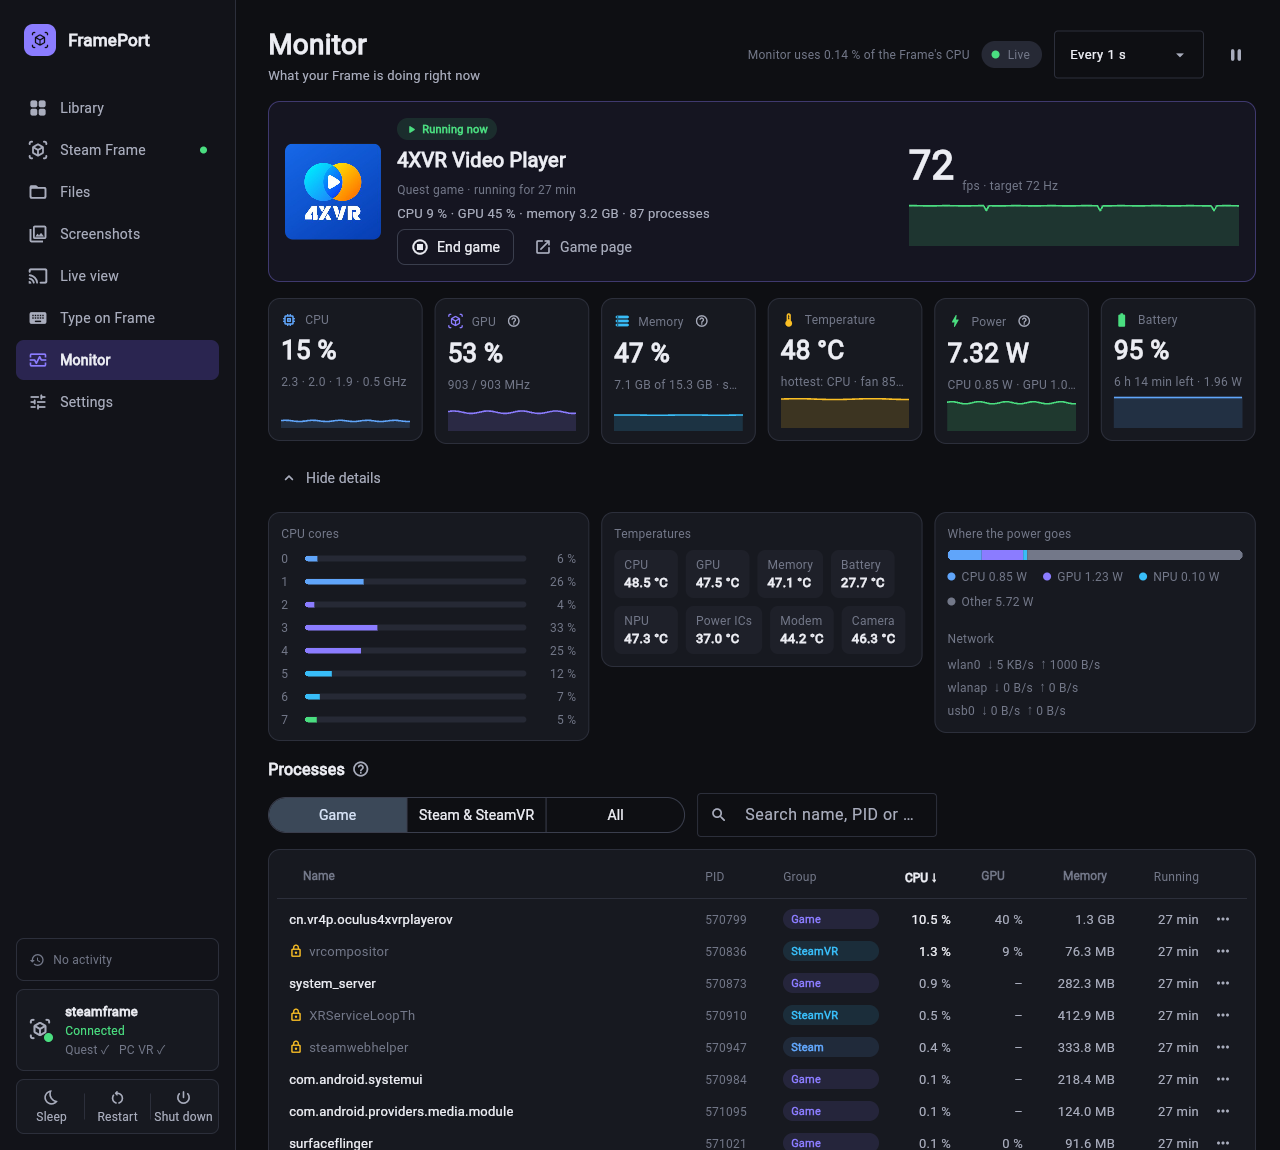
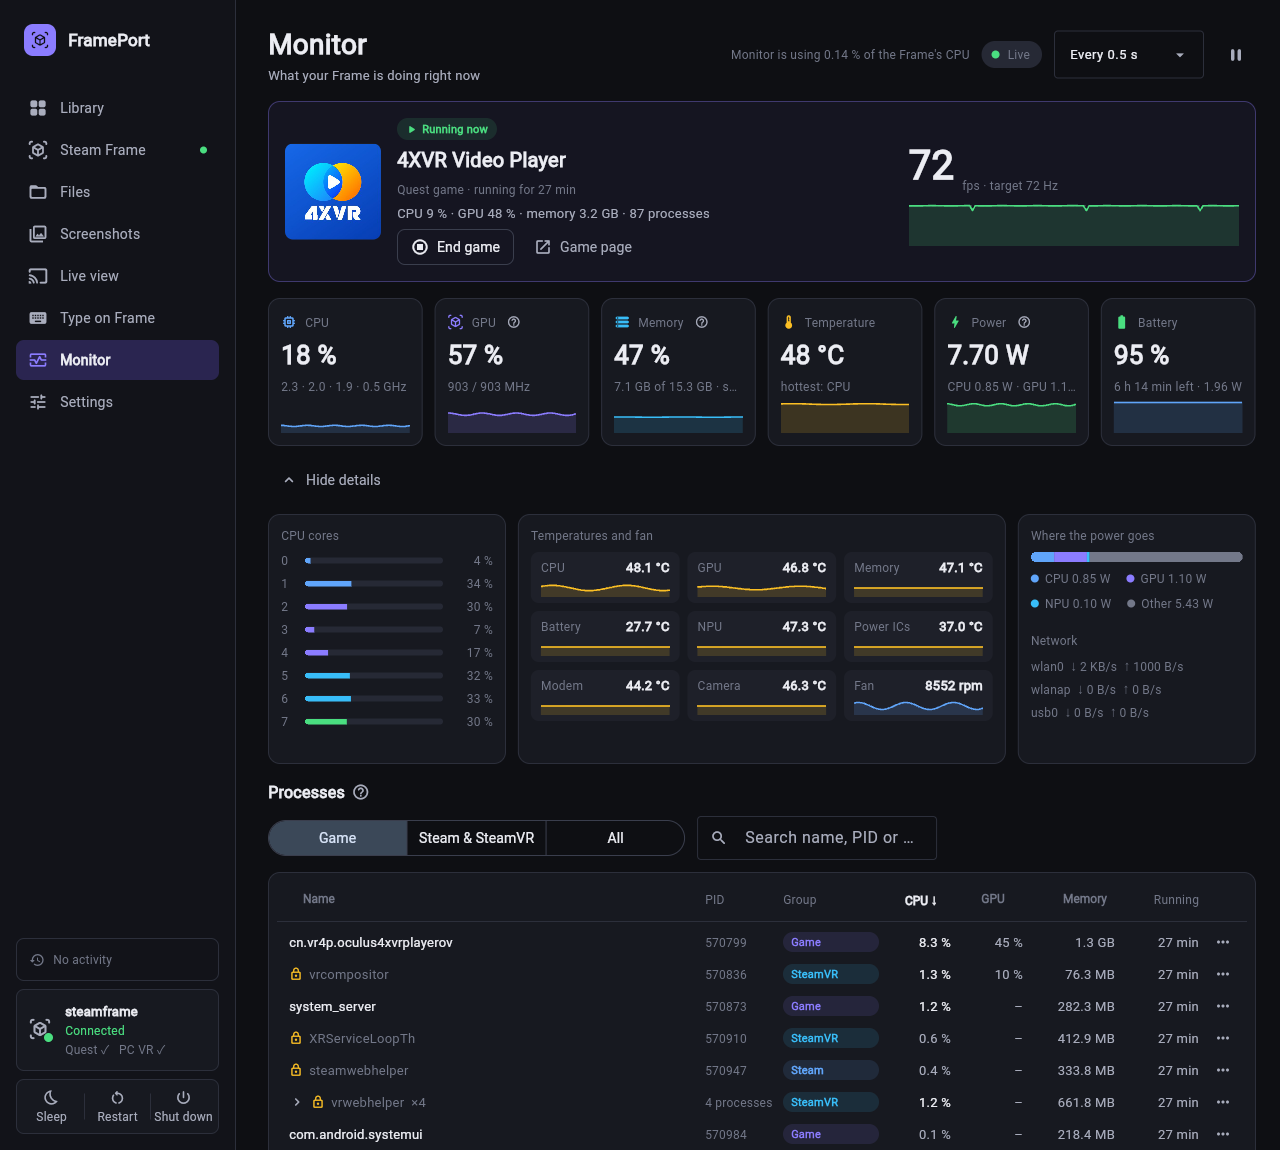
Monitor: the detail boxes' first update goes through the event loop like the ticks (sent from the connect thread it could arrive after a tick's patch: 'dropped a patch for unknown control'); README screenshot with the new layout

diff --git a/src/frameport/ui/views/monitor.py b/src/frameport/ui/views/monitor.py
@@ -425,15 +425,22 @@ class MonitorView:
             legend.append(ft.Row([C.dot(color, T.px(8)), t], spacing=T.px(6), tight=True))
         self.power_legend.controls = legend
         self.net.controls, self.net_texts = [], {}
-        C.update(self.cores, self.temps, self.power_legend, self.net)
+        # through the event loop like the ticks: sent directly from this (connect) thread, the patch adding these
+        # boxes could arrive after a tick's patch for them ("dropped a patch for unknown control")
+        self._updater()(self.cores, self.temps, self.power_legend, self.net)
+
+    def _updater(self):
+        """The one components.LoopUpdater of this view: every update from the stream's threads goes through it, in
+        order, on Flet's event loop."""
+        if self.push is None:
+            self.push = C.LoopUpdater(self.app.page)
+        return self.push
 
     # ---------------------------------------------------------------- samples
     def _on_sample(self, gen: int, s: dict) -> None:
         if gen != self._gen or self.root is None:
             return
         self.last_sample = s
-        if self.push is None:
-            self.push = C.LoopUpdater(self.app.page)
         for name, value in M.series_of(s).items():
             self.history.add(name, value, s.get("t"))
         changed = [self._apply_tiles(s), self._apply_game(s), self._apply_details(s)]
@@ -443,7 +450,7 @@ class MonitorView:
         cpu_share = (s.get("self_ms") or 0) / 10 / max(1.0, s.get("dt") or 1.0) / max(1, self.static.get("cores", 1))
         self.overhead.value = tr("Monitor is using {pct} % of the Frame's CPU").format(pct=f"{cpu_share:.2f}")
         self.overhead.tooltip = tr("The time the Frame spends collecting these numbers")
-        self.push(self.overhead, *[c for group in changed for c in group])
+        self._updater()(self.overhead, *[c for group in changed for c in group])
 
     def _apply_tiles(self, s: dict) -> list:
         h, st = self.history, self.static
